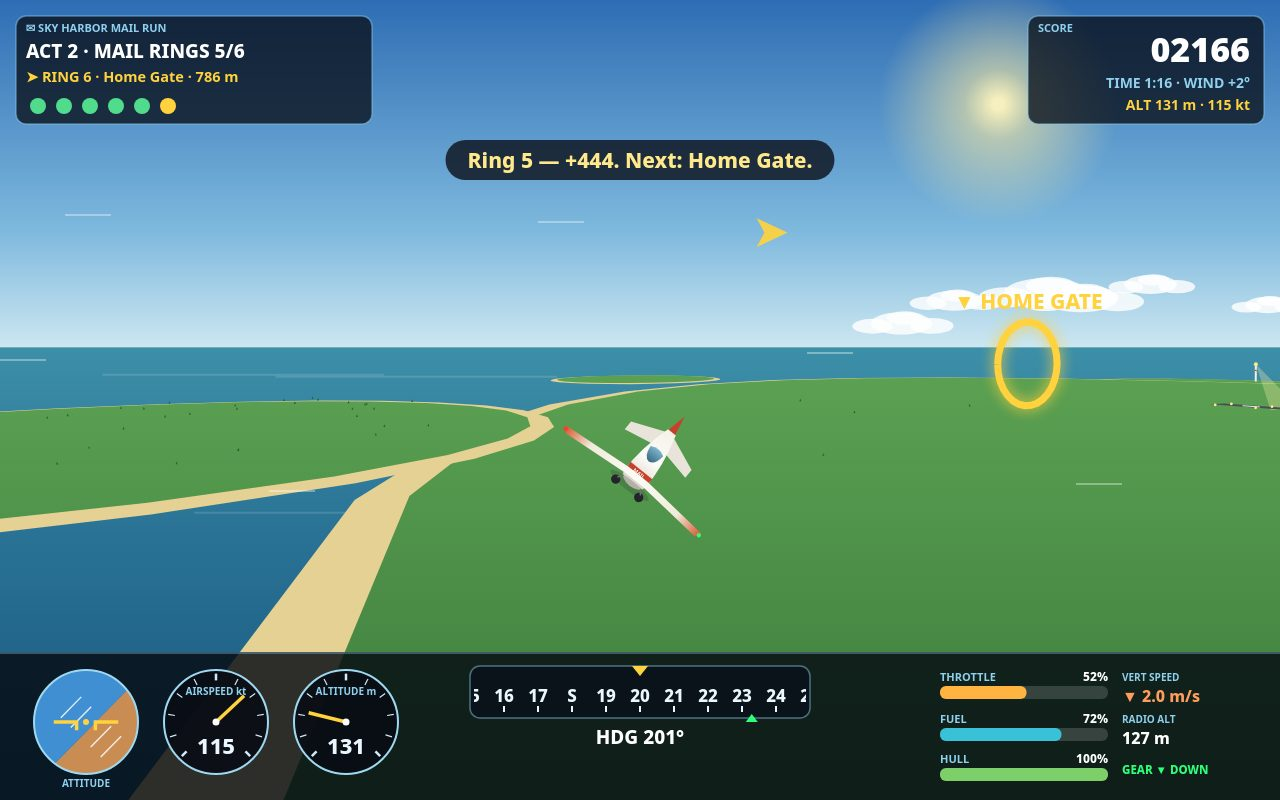
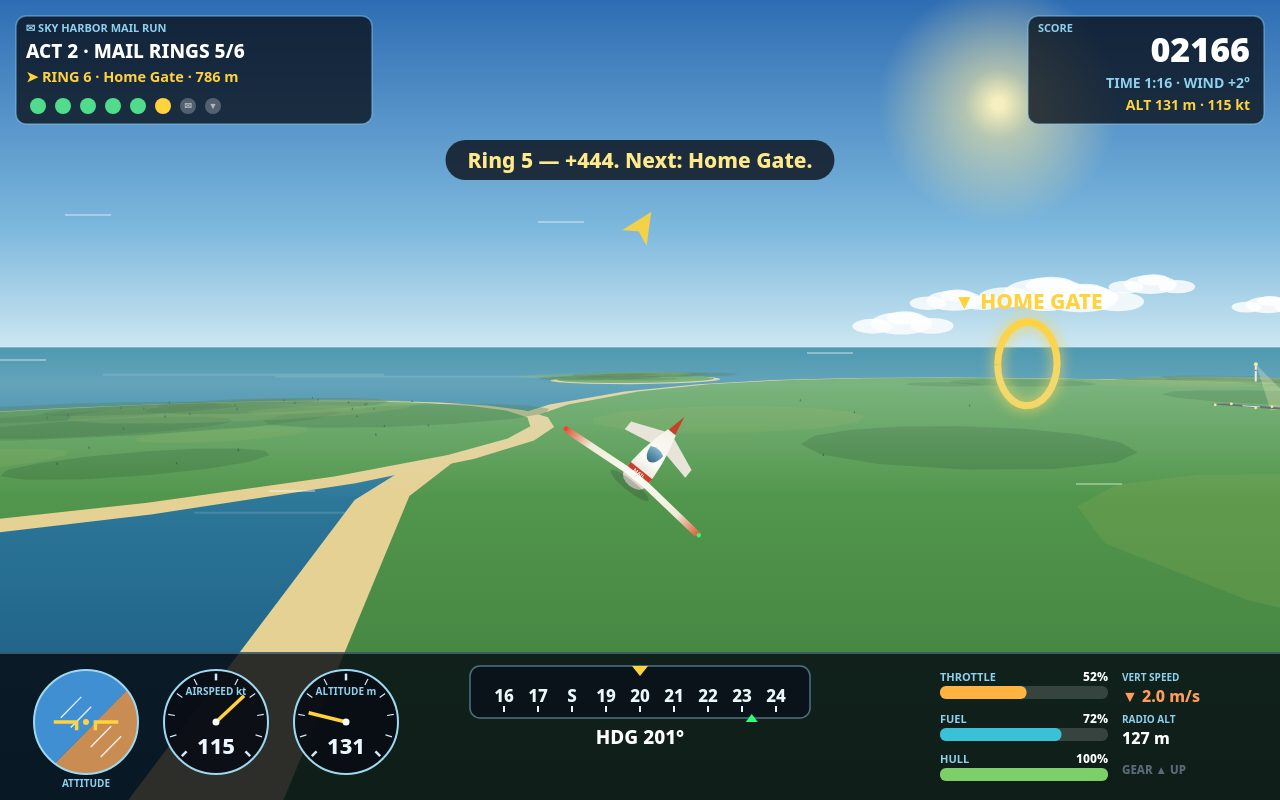
Round 3: Quick-review fixes — drop-approach cover, graded drop, real gear state, guidance fix

diff --git a/game/src/instruments.js b/game/src/instruments.js
@@ -161,7 +161,11 @@ export function drawInstruments(ctx, plane, sortie, w, h) {
   ctx.fillStyle = '#eaf7ff';
   ctx.font = '800 17px system-ui, sans-serif';
   ctx.textAlign = 'center';
-  for (let d = -60; d <= 60; d += 10) {
+  // Labels only where they fit whole inside the tape: at ±60 the
+  // two-digit labels were centre-clipped by the window and rendered
+  // as stray strokes ("31" showed as "I") with a dark clipped glyph
+  // blob at the right edge. ±40 keeps every label fully inside.
+  for (let d = -40; d <= 40; d += 10) {
     const heading = ((Math.round(plane.headingDeg / 10) * 10 + d) % 360 + 360) % 360;
     const x = w / 2 + d * 3.4;
     const label =
@@ -186,7 +190,9 @@ export function drawInstruments(ctx, plane, sortie, w, h) {
   const target = currentTarget(sortie, plane);
   const err = headingErrorTo(plane, target);
   if (Math.abs(err) <= 58) {
-    const x = w / 2 + err * 3.4;
+    // Clamp inside the tape window: an unclamped caret at the rim
+    // drew a dark half-glyph outside the box that read as a blob.
+    const x = Math.max(tapeX + 14, Math.min(tapeX + 326, w / 2 + err * 3.4));
     ctx.fillStyle = '#2eff7b';
     ctx.beginPath();
     ctx.moveTo(x, panelY + 62);
@@ -270,16 +276,35 @@ export function drawHud(ctx, plane, sortie, w, h) {
   } else {
     ctx.fillText(`➤ ${target.label} · ${Math.round(dist)} m`, 26, 82);
   }
-  // Ring pips.
-  for (let i = 0; i < RINGS.length; i++) {
+  // Mission progress: eight stages — the six rings, then the drop,
+  // then the landing — so Acts 3 and 4 show on the board too, not
+  // just in the phase line. Drop pip carries a parcel mark, the
+  // landing pip a runway tick.
+  const stageState = (i) => {
+    if (i < RINGS.length) {
+      return i < sortie.ringIndex || sortie.phase === PHASES.DROP || sortie.phase === PHASES.LANDING || sortie.phase === PHASES.DONE
+        ? 'done'
+        : sortie.phase === PHASES.RINGS && i === sortie.ringIndex
+          ? 'next'
+          : 'todo';
+    }
+    if (i === RINGS.length) {
+      return sortie.dropped ? 'done' : sortie.phase === PHASES.DROP ? 'next' : 'todo';
+    }
+    return sortie.phase === PHASES.DONE ? 'done' : sortie.phase === PHASES.LANDING ? 'next' : 'todo';
+  };
+  for (let i = 0; i < RINGS.length + 2; i++) {
+    const cx = 38 + i * 25;
+    const st = stageState(i);
     ctx.beginPath();
-    ctx.arc(38 + i * 26, 106, 8, 0, Math.PI * 2);
-    ctx.fillStyle = i < sortie.ringIndex || sortie.phase === PHASES.DROP || sortie.phase === PHASES.LANDING
-      ? '#50dc8c'
-      : i === sortie.ringIndex
-        ? '#ffd23e'
-        : 'rgba(255,255,255,0.25)';
+    ctx.arc(cx, 106, 8, 0, Math.PI * 2);
+    ctx.fillStyle = st === 'done' ? '#50dc8c' : st === 'next' ? '#ffd23e' : 'rgba(255,255,255,0.25)';
     ctx.fill();
+    ctx.fillStyle = st === 'todo' ? 'rgba(255,255,255,0.55)' : '#0c1420';
+    ctx.font = '800 9px system-ui, sans-serif';
+    ctx.textAlign = 'center';
+    if (i === RINGS.length) ctx.fillText('✉', cx, 109);
+    if (i === RINGS.length + 1) ctx.fillText('▼', cx, 109);
   }
 
   // Score panel, top-right.
@@ -309,15 +334,20 @@ export function drawHud(ctx, plane, sortie, w, h) {
     ctx.fillText(sortie.message, w / 2, 168);
   }
 
-  // Big steering arrow toward the target when it is off the nose.
+  // Big steering arrow: rotated to the target's actual relative
+  // bearing, so it points where the target really is — ahead-right,
+  // hard left, even behind — instead of flipping left/right beside
+  // the nose regardless of the geometry.
   const err = headingErrorTo(plane, target);
   if (!sortie.finished && Math.abs(err) > 14) {
     ctx.fillStyle = 'rgba(255,210,62,0.92)';
     ctx.font = '900 40px system-ui, sans-serif';
     ctx.textAlign = 'center';
     ctx.save();
-    ctx.translate(w / 2 + Math.sign(err) * 130, 232);
-    if (err < 0) ctx.scale(-1, 1);
+    ctx.translate(w / 2, 226);
+    // ➤ glyph points +x (right); screen-ahead is up. Bearing err is
+    // clockwise from the nose, matching canvas rotation.
+    ctx.rotate(((err - 90) * Math.PI) / 180);
     ctx.fillText('➤', 0, 14);
     ctx.restore();
   }

diff --git a/game/src/render.js b/game/src/render.js
@@ -4,7 +4,7 @@
 // building on screen is the same world object the physics can hit.
 
 import { CAMERA } from './config.js';
-import { CLOUDS, DEPOT, ISLANDS, LIGHTHOUSE, MOUNTAINS, TOWN, TREES, groundHeightAt, islandHeightAt } from './terrain.js';
+import { CLOUDS, DEPOT, ISLANDS, LIGHTHOUSE, MOUNTAINS, PATCHES, TOWN, TREES, groundHeightAt, islandHeightAt } from './terrain.js';
 import { RINGS, RING_RADIUS } from './missions.js';
 import { drawAircraft } from './aircraft.js';
 
@@ -142,6 +142,17 @@ export function drawScene(ctx, plane, sortie, w, h, timeMs) {
     }
   }
 
+  // Grass mottling: flat darker patches lying on the island domes.
+  for (const p of PATCHES) {
+    if (Math.hypot(p.x - plane.x, p.z - plane.z) > 3400) continue;
+    const y = islandHeightAt(p.x, p.z) + 3.6;
+    if (y < 4) continue;
+    const pts = ellipsePoints(p.x, p.z, p.r, p.r * 0.72, y, 14)
+      .map((q) => project(q[0], q[1], q[2], true))
+      .filter(Boolean);
+    if (pts.length >= 3) poly(ctx, pts, p.tone > 0.5 ? 'rgba(46,102,50,0.35)' : 'rgba(126,166,80,0.30)');
+  }
+
   // Mountains: cones with snow caps.
   const mountsSorted = [...MOUNTAINS].sort(
     (a, b) => Math.hypot(b.x - plane.x, b.z - plane.z) - Math.hypot(a.x - plane.x, a.z - plane.z),
@@ -247,14 +258,17 @@ export function drawScene(ctx, plane, sortie, w, h, timeMs) {
     }
   }
 
-  // Mail rings: the next one burns gold, the rest wait in cyan.
+  // Mail rings: only rings still to fly are drawn — the next one
+  // burns gold, the rest wait in cyan. A passed ring vanishes: in the
+  // old build the whole spent course floated over the landing shot
+  // and read as live targets that were not there.
   RINGS.forEach((ring, i) => {
     const state = i < sortie.ringIndex || sortie.phase === 'DROP' || sortie.phase === 'LANDING' || sortie.phase === 'DONE'
       ? 'done'
       : i === sortie.ringIndex
         ? 'next'
         : 'todo';
-    drawRing(ctx, project, ring, state, timeMs);
+    if (state !== 'done') drawRing(ctx, project, ring, state, timeMs);
   });
 
   // Drop marker over the lighthouse while the parcel is aboard.
@@ -271,6 +285,30 @@ export function drawScene(ctx, plane, sortie, w, h, timeMs) {
       ctx.font = `700 ${Math.max(13, r * 0.5)}px system-ui, sans-serif`;
       ctx.textAlign = 'center';
       ctx.fillText('▼ DROP HERE — FLY LOW', p.x, p.y - r - 8);
+    }
+  }
+
+  // Distance haze: a soft band at the horizon so far terrain melts
+  // into the sky instead of ending in a hard cut.
+  const haze = ctx.createLinearGradient(0, horizonY - 26, 0, horizonY + 150);
+  haze.addColorStop(0, 'rgba(207,232,242,0)');
+  haze.addColorStop(0.35, 'rgba(207,232,242,0.28)');
+  haze.addColorStop(1, 'rgba(207,232,242,0)');
+  ctx.fillStyle = haze;
+  ctx.fillRect(0, horizonY - 26, w, 176);
+
+  // The aircraft's ground shadow: grounds the plane in the world and
+  // quietly reads as height to the eye watching the approach.
+  {
+    const gy = groundHeightAt(plane.x, plane.z);
+    const agl = Math.max(0, plane.alt - gy);
+    const sp = project(plane.x, gy + 0.8, plane.z);
+    if (sp && agl < 320) {
+      const fade = Math.max(0, 1 - agl / 320);
+      ctx.fillStyle = `rgba(18,30,20,${0.34 * fade})`;
+      ctx.beginPath();
+      ctx.ellipse(sp.x, sp.y, Math.max(3, sp.scale * 6.2), Math.max(1.5, sp.scale * 1.9), 0, 0, Math.PI * 2);
+      ctx.fill();
     }
   }
 

diff --git a/game/src/missions.js b/game/src/missions.js
@@ -33,6 +33,7 @@ export function createSortie() {
     ringSplits: [], // {name, offset} per ring, from the real crossing
     dropped: false,
     dropOffset: null,
+    dropPoints: null,
     landing: null, // judgeTouchdown result once down
     takeoffClean: false,
     message: 'Throttle up with W. Rotate with ↓ past 55 kt.',
@@ -118,9 +119,14 @@ export function stepMission(sortie, plane, planeEvents, dt) {
     if ((leaving || d < 55) && plane.alt <= DROP_ZONE.maxAlt && sortie._dropClosest != null) {
       sortie.dropped = true;
       sortie.dropOffset = Math.round(sortie._dropClosest);
-      sortie.score += SCORING.dropScore;
+      // The drop pays like a ring does: a base for delivering at all,
+      // plus a centre bonus that fades with the miss distance — a
+      // 54 m pass earns well, but never the dead-centre money.
+      const closeness = Math.max(0, 1 - sortie._dropClosest / DROP_ZONE.radius);
+      sortie.dropPoints = Math.round(SCORING.dropBase + SCORING.dropCenterBonus * closeness);
+      sortie.score += sortie.dropPoints;
       sortie.phase = PHASES.LANDING;
-      say(sortie, 'Parcel away! Now bring her home — land northbound on the strip.');
+      say(sortie, `Parcel away — ${sortie.dropOffset} m from the light, +${sortie.dropPoints}! Now bring her home.`);
     }
   }
 
@@ -202,8 +208,17 @@ export function currentTarget(sortie, plane) {
   if (sortie.phase === PHASES.DROP) {
     return { x: DROP_ZONE.x, z: DROP_ZONE.z, alt: 70, label: 'DROP · BEACON ISLET' };
   }
-  if (plane && !(plane.z > 1000 && Math.abs(plane.x) < 280)) {
-    return { x: 0, z: 1250, alt: 120, label: 'APPROACH FIX · SOUTH' };
+  // Landing: once the plane is south of the field, roughly on the
+  // centreline, it is on final — the target is the threshold itself.
+  // Only a plane still out of position routes via the approach fix;
+  // pointing a pilot on final back at the fix behind them was the
+  // old arrow bug (arrow hard right with the runway dead ahead).
+  if (plane) {
+    const onFinal = plane.z > 210 && Math.abs(plane.x) < 280;
+    if (!onFinal && !(plane.z > 1000 && Math.abs(plane.x) < 280)) {
+      return { x: 0, z: 1250, alt: 120, label: 'APPROACH FIX · SOUTH' };
+    }
+    if (plane.z <= 210) return { x: 0, z: -420, alt: 16, label: 'LAND · SKY HARBOR RWY 36' };
   }
   return { x: 0, z: 210, alt: 16, label: 'LAND · SKY HARBOR RWY 36' };
 }

diff --git a/game/src/shots.js b/game/src/shots.js
@@ -7,7 +7,7 @@
 
 import { createAircraft } from './aircraft.js';
 import { stepFlight, angleDeltaDeg } from './physics.js';
-import { createSortie, stepMission, currentTarget, bearingTo, RINGS } from './missions.js';
+import { createSortie, stepMission, currentTarget, bearingTo, headingErrorTo, DROP_ZONE, RINGS } from './missions.js';
 import { groundHeightAt } from './terrain.js';
 import { WORLD } from './config.js';
 
@@ -113,8 +113,19 @@ export function simulateCanonicalFlight(onStep, maxSteps = 60 * 60 * 6) {
 // Scene definitions: each is a predicate over the live simulation.
 export const SHOT_SCENES = {
   cover(plane, sortie) {
-    // Just airborne: gear still down, ring 1 dead ahead, strip below.
-    return !plane.onGround && plane.alt > 62 && sortie.ringIndex === 0;
+    // The Act 3 drop approach (Quick review: the old takeoff cover
+    // was 40% grey runway with no sea in frame): low over the sea on
+    // the run-in to Beacon Islet, lighthouse and drop marker ahead,
+    // gear down, the whole panel lit. A real frame of the same
+    // canonical flight — the sim simply runs on into the DROP phase.
+    if (sortie.phase !== 'DROP' || plane.onGround) return false;
+    const dist = Math.hypot(plane.x - DROP_ZONE.x, plane.z - DROP_ZONE.z);
+    return (
+      dist > 340 &&
+      dist < 560 &&
+      plane.alt <= DROP_ZONE.maxAlt &&
+      Math.abs(headingErrorTo(plane, DROP_ZONE)) < 22
+    );
   },
   rings(plane, sortie, step, before) {
     // The frame the fifth ring is crossed: turning for home over the

diff --git a/game/src/main.js b/game/src/main.js
@@ -63,12 +63,13 @@ function showEnd() {
   const rows = [
     ['Rings threaded', `${sortie.ringsPassed} / 6`],
     ...sortie.ringSplits.map((r) => [`· ${r.name}`, `+${r.gained} (${r.offset} m off centre)`]),
-    ['Parcel drop', sortie.dropped ? `+600 · away, ${sortie.dropOffset} m from the light` : 'not delivered'],
+    ['Parcel drop', sortie.dropped ? `${sortie.dropOffset} m from the light — +${sortie.dropPoints}` : 'not delivered'],
     ['Landing', sortie.landingPoints != null ? `+${sortie.landingPoints} · ${landingText}` : landingText],
     ['Flight time', `${Math.floor(sortie.timeSec / 60)}:${String(Math.floor(sortie.timeSec % 60)).padStart(2, '0')}`],
     ['Fuel left', `${Math.round(plane.fuel)}% → +${sortie.fuelBonus ?? 0}`],
     ['Time bonus', `+${sortie.timeBonus ?? 0}`],
     ['Hull remaining', `${Math.round(plane.hull)}%`],
+    ['Grade scale', 'S needs 3,400+ · A 2,900+ · B 2,300+ · C 1,600+ (parcel delivered)'],
   ];
   stats.innerHTML = rows
     .map(([k, v]) => `<div class="row"><span>${k}</span><b>${v}</b></div>`)

diff --git a/game/src/terrain.js b/game/src/terrain.js
@@ -74,6 +74,30 @@ function buildTrees() {
 }
 export const TREES = buildTrees();
 
+// Grass mottling: darker meadow patches scattered on the islands
+// (deterministic), so the domes do not read as one flat billiard
+// cloth. Each patch sits inside its island's rim.
+export const PATCHES = [];
+{
+  let seed = 53;
+  const rnd = () => {
+    seed = (seed * 48271) % 2147483647;
+    return seed / 2147483647;
+  };
+  for (const isl of ISLANDS) {
+    for (let i = 0; i < 15; i++) {
+      const a = rnd() * Math.PI * 2;
+      const rr = Math.sqrt(rnd()) * 0.78;
+      PATCHES.push({
+        x: isl.x + Math.cos(a) * isl.rx * rr,
+        z: isl.z + Math.sin(a) * isl.rz * rr,
+        r: 90 + rnd() * 190,
+        tone: rnd(),
+      });
+    }
+  }
+}
+
 // Clouds: soft billboards drifting slowly east.
 export const CLOUDS = [];
 {

diff --git a/game/src/physics.js b/game/src/physics.js
@@ -117,6 +117,16 @@ export function stepFlight(plane, input, dt, timeSec) {
     }
   }
 
+  // Gear is a real state with a sensible automatic cycle: down on
+  // the ground and on approach, retracted in the cruise. Altitude
+  // (not AGL) is the trigger, with a hysteresis band so it cannot
+  // chatter: up above 110 m, back down below 95 m. The low drop run
+  // (~74 m) and every landing final stay gear-down; the ring cruise
+  // (115–165 m) flies clean.
+  if (plane.onGround) plane.gearDown = true;
+  else if (plane.alt > 110) plane.gearDown = false;
+  else if (plane.alt < 95) plane.gearDown = true;
+
   plane.propPhase += dt * (4 + plane.throttle * 40);
   return events;
 }

diff --git a/game/src/config.js b/game/src/config.js
@@ -30,7 +30,8 @@ export const PLANE = {
 export const SCORING = {
   ringBase: 300,
   ringCenterBonus: 150, // scaled by how centrally the ring was crossed
-  dropScore: 600,
+  dropBase: 200,
+  dropCenterBonus: 400, // scaled by how close the pass came to the light
   landingPerfect: 600,
   landingGood: 350,
   fuelBonusPerUnit: 6,
